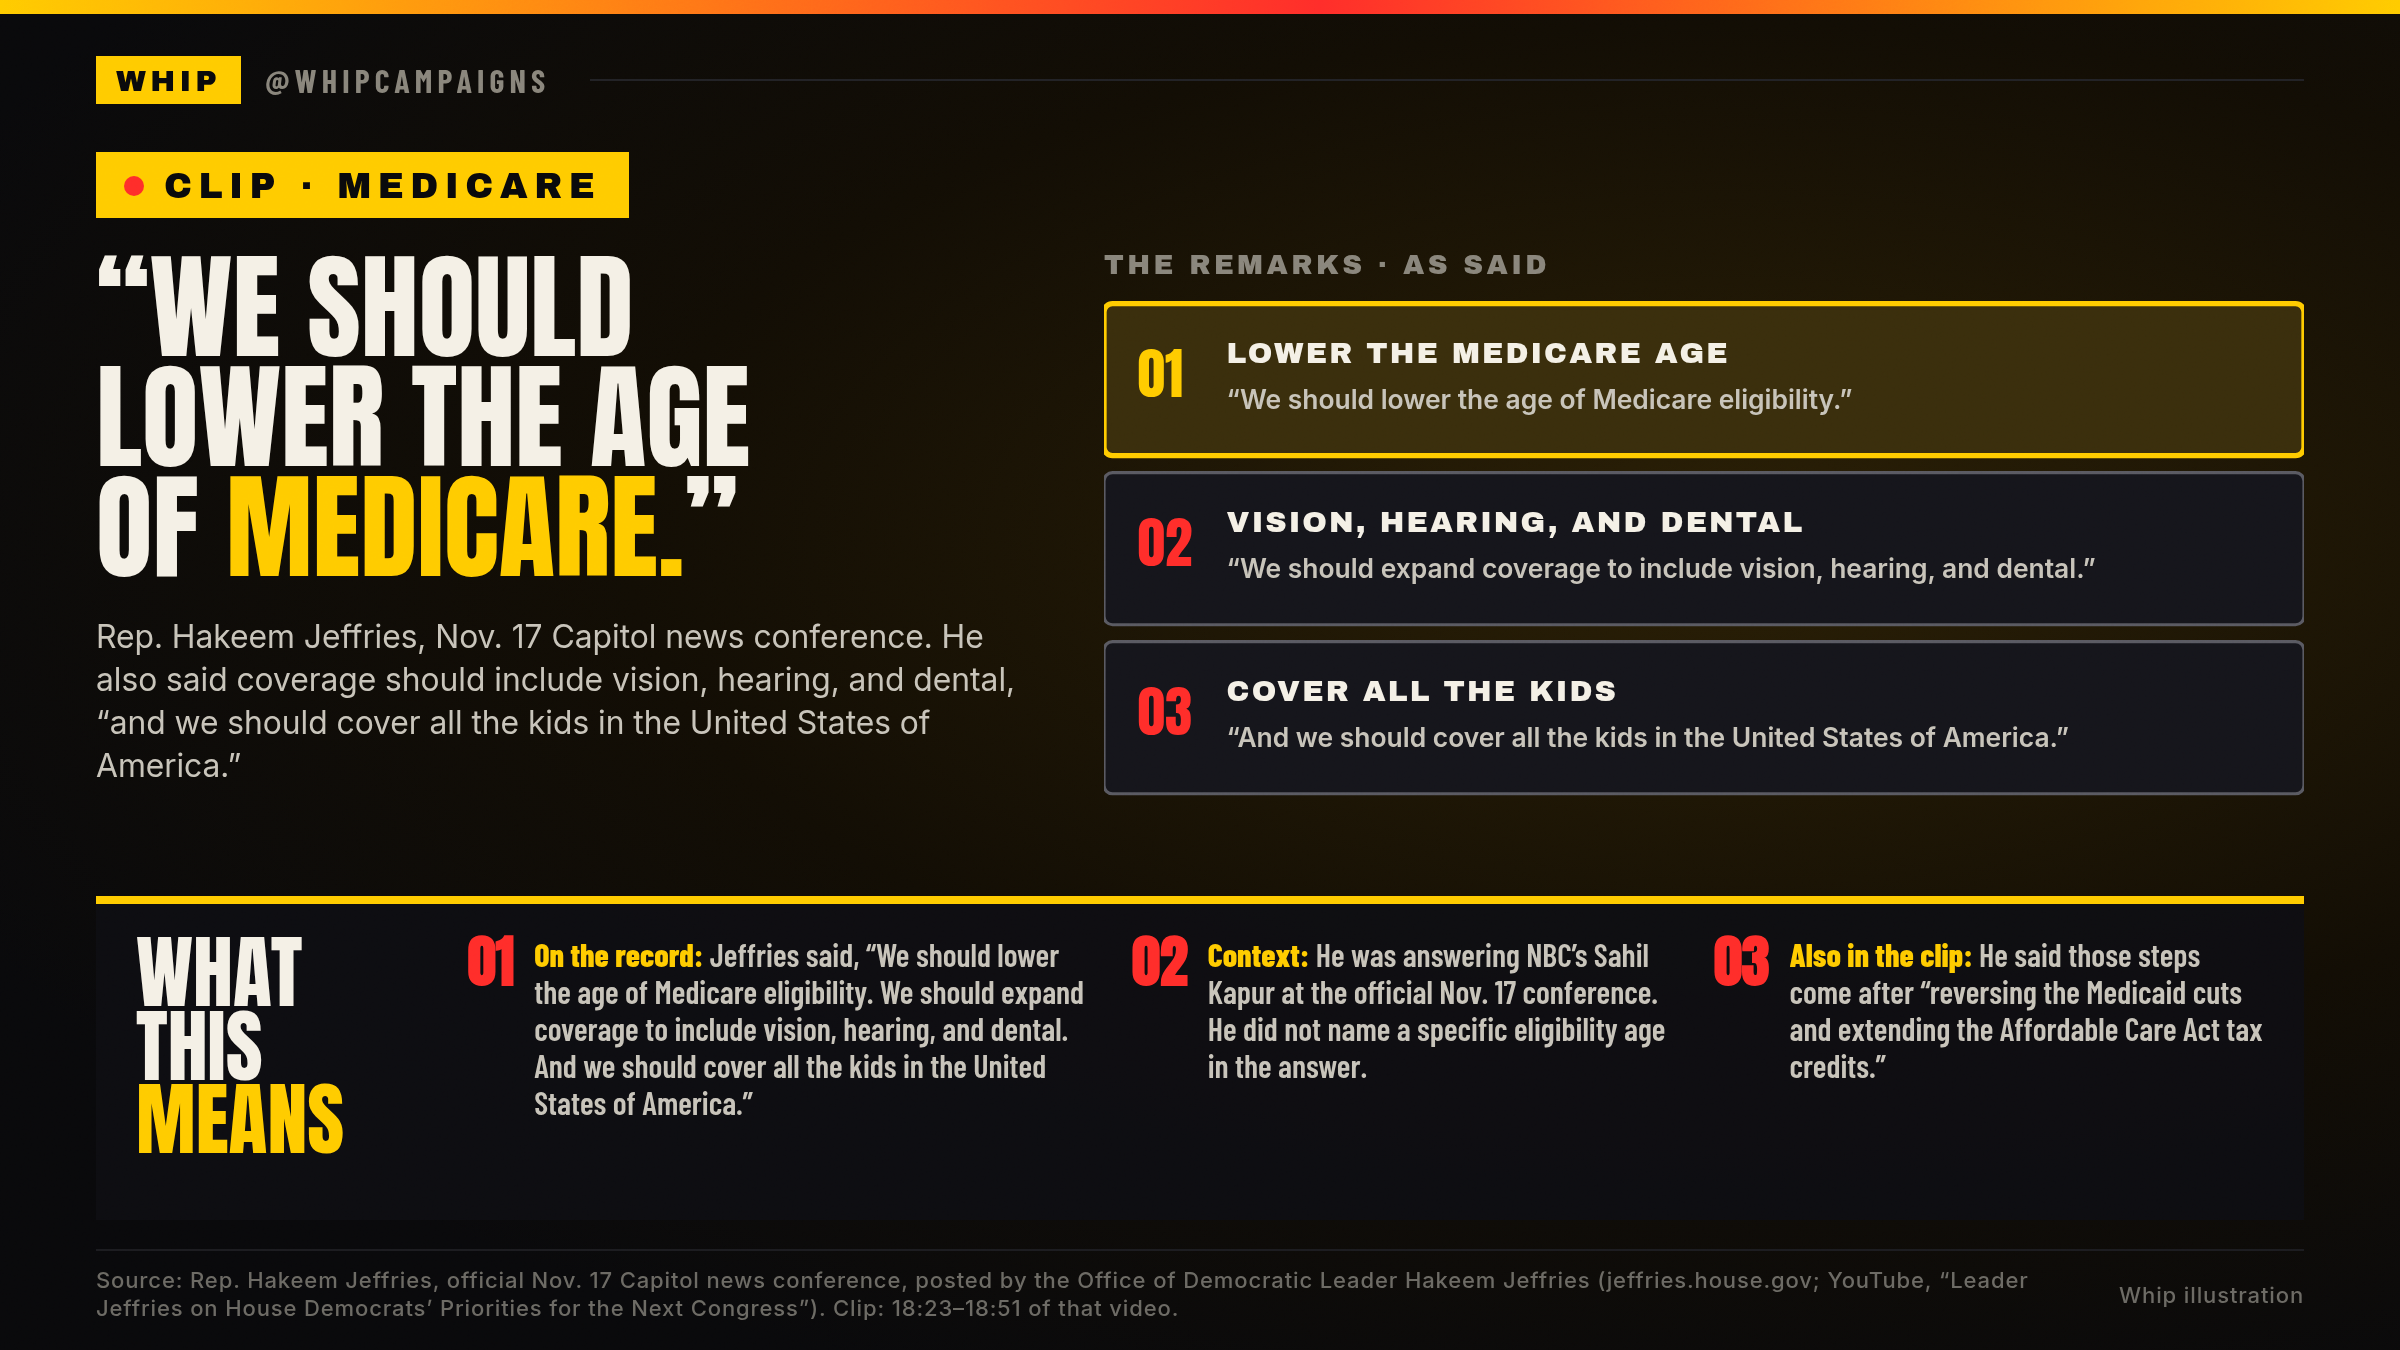
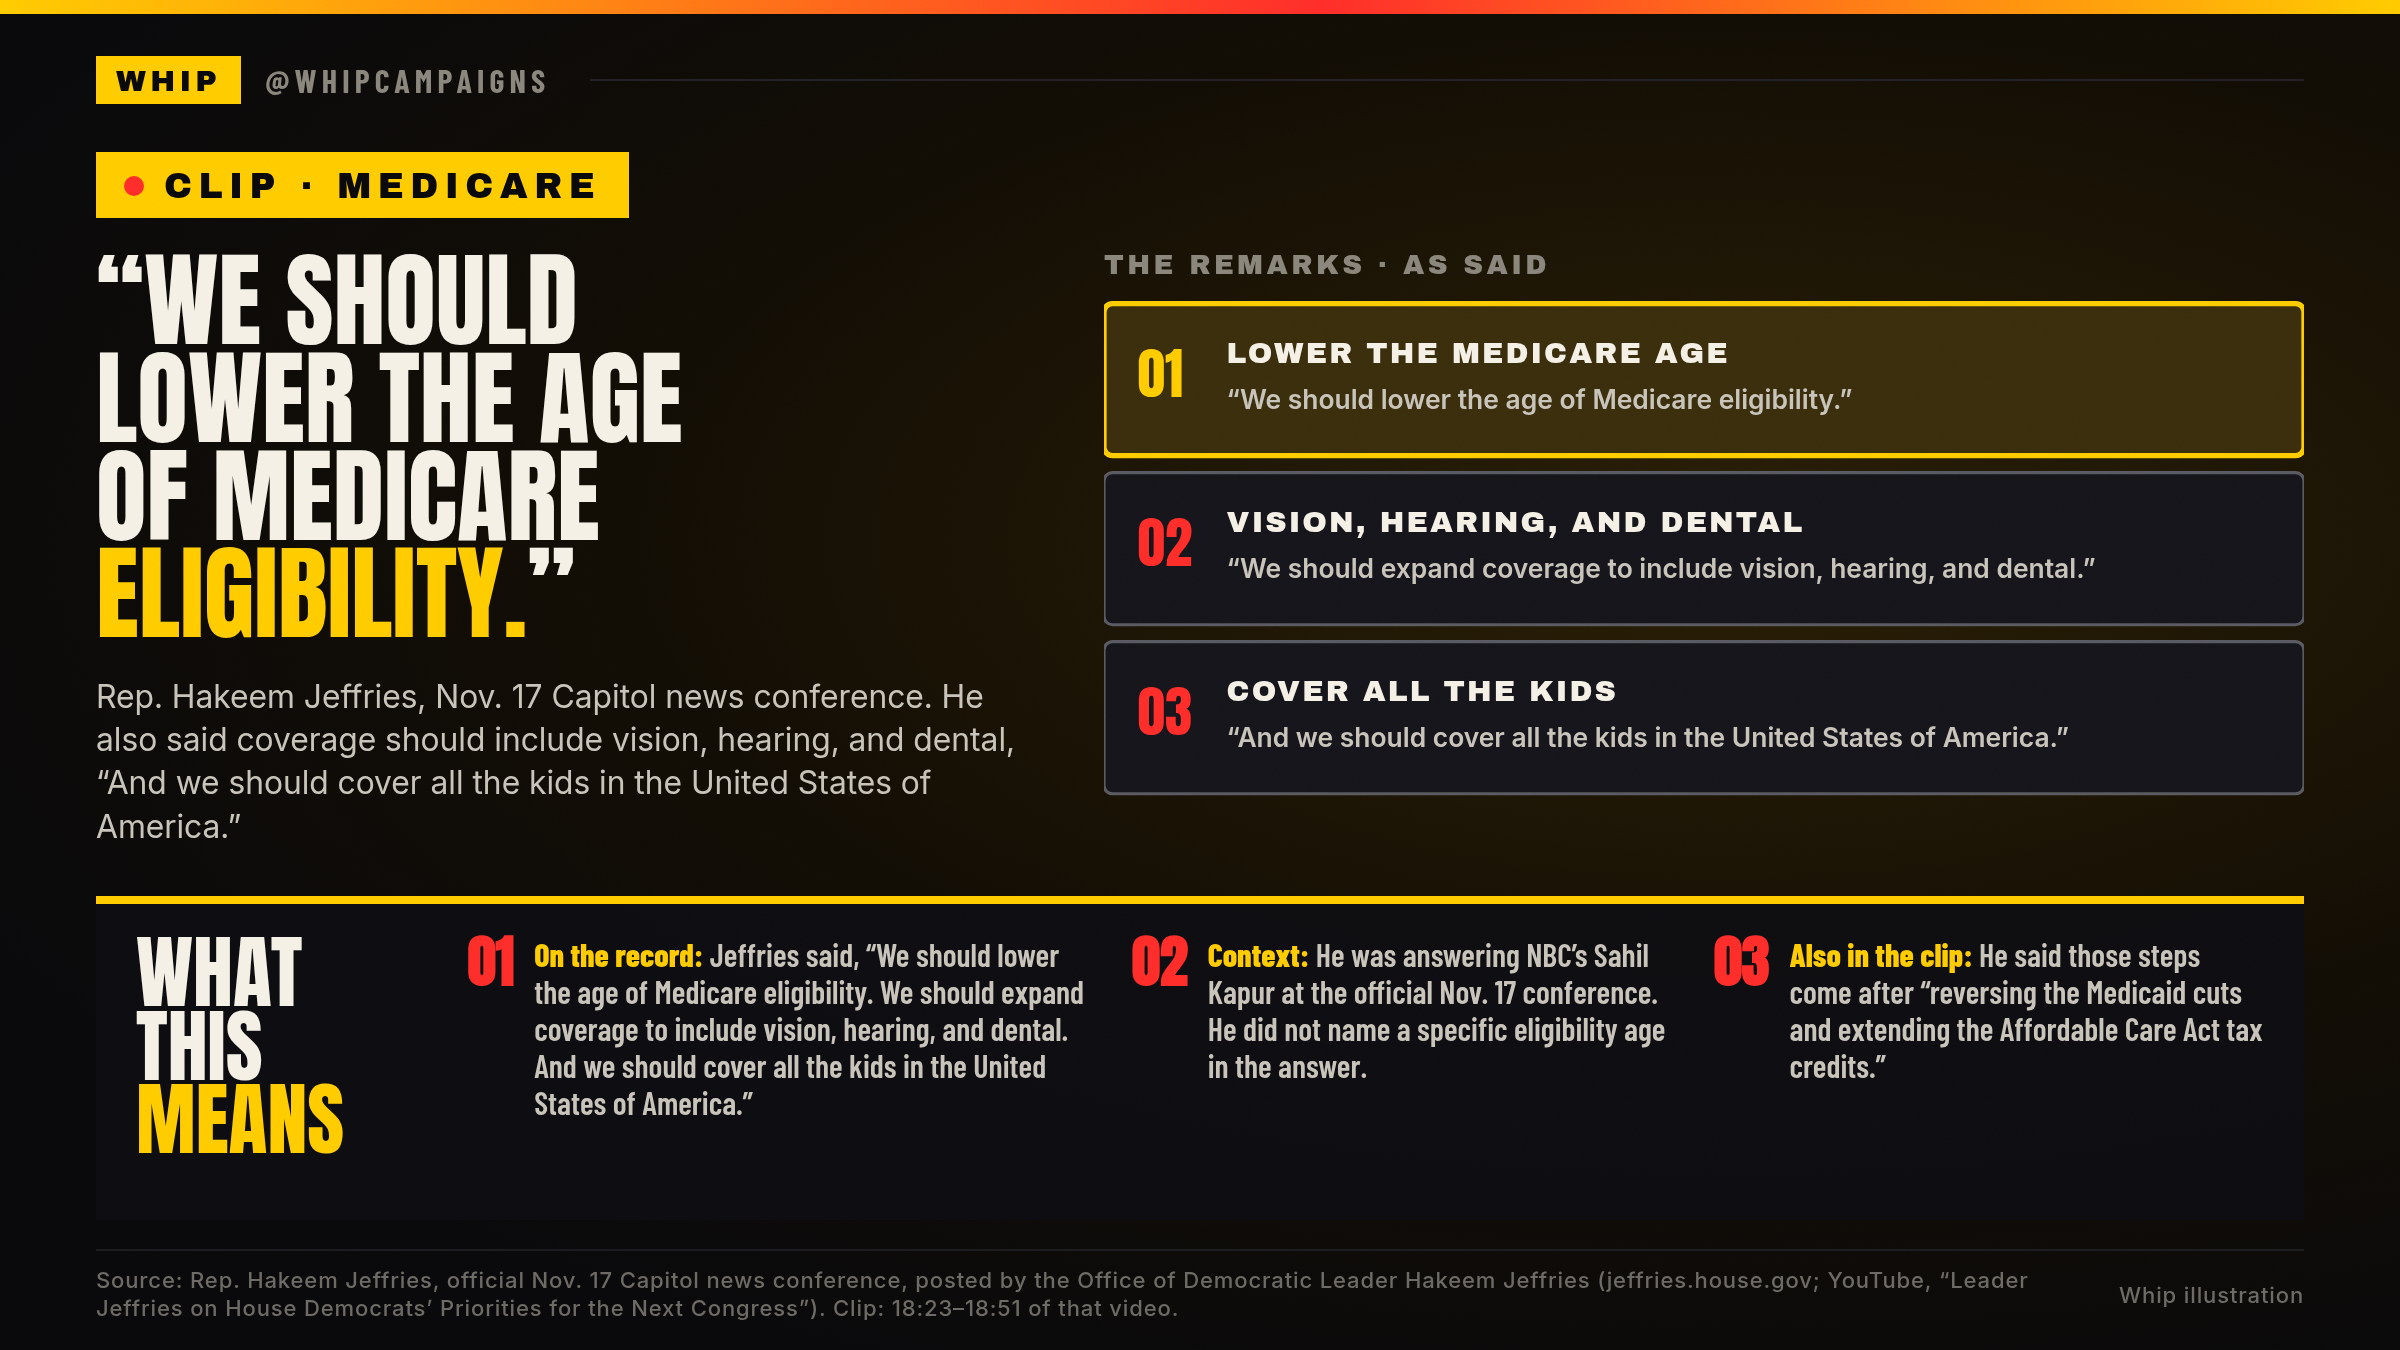
Fix Jeffries card headline to verbatim Medicare eligibility quote

Changed region(s): [[0.0312, 0.1867, 0.4375, 0.6222]]

diff --git a/breaking/2026-11-24-jeffries-medicare/make_card.py b/breaking/2026-11-24-jeffries-medicare/make_card.py
@@ -35,8 +35,8 @@ html = wrap(f"""
 <div class="footer"><span>Source: Rep. Hakeem Jeffries, official Nov. 17 Capitol news conference, posted by the Office of Democratic Leader Hakeem Jeffries (jeffries.house.gov; YouTube, “Leader Jeffries on House Democrats’ Priorities for the Next Congress”). Clip: 18:23–18:51 of that video.</span><span>Whip illustration</span></div>
 <div class="tag"><span class="dot"></span>CLIP &middot; MEDICARE</div>
 <div class="left">
-  <div class="h1">&ldquo;WE SHOULD<br>LOWER THE AGE<br>OF <span class="y">MEDICARE.</span>&rdquo;</div>
-  <div class="att">Rep. Hakeem Jeffries, Nov. 17 Capitol news conference. He also said coverage should include vision, hearing, and dental, “and we should cover all the kids in the United States of America.”</div>
+  <div class="h1">&ldquo;WE SHOULD<br>LOWER THE AGE<br>OF MEDICARE<br><span class="y">ELIGIBILITY.</span>&rdquo;</div>
+  <div class="att">Rep. Hakeem Jeffries, Nov. 17 Capitol news conference. He also said coverage should include vision, hearing, and dental, “And we should cover all the kids in the United States of America.”</div>
 </div>
 <div class="panel">
   {graphic}
@@ -52,7 +52,7 @@ body{background:radial-gradient(ellipse at 72% 40%,#2a1f05 0%,#120d04 45%,#09090
 .tag{position:absolute;top:76px;left:48px;display:flex;align-items:center;gap:10px;background:#ffcc00;color:#09090b;font-family:'Archivo Black',sans-serif;font-size:18px;letter-spacing:.18em;padding:7px 14px 6px;z-index:5}
 .dot{width:10px;height:10px;border-radius:50%;background:#ff2d2a}
 .left{position:absolute;left:48px;top:126px;width:500px;z-index:5}
-.h1{font-family:'Anton',sans-serif;font-size:58px;line-height:.95;color:#f4f0e6}
+.h1{font-family:'Anton',sans-serif;font-size:52px;line-height:.94;color:#f4f0e6}
 .att{font-family:'Inter',sans-serif;font-size:16px;line-height:1.35;color:#c8c4ba;margin-top:16px;width:470px}
 .y{color:#ffcc00}
 .panel{position:absolute;right:48px;top:118px;width:600px;z-index:5}
